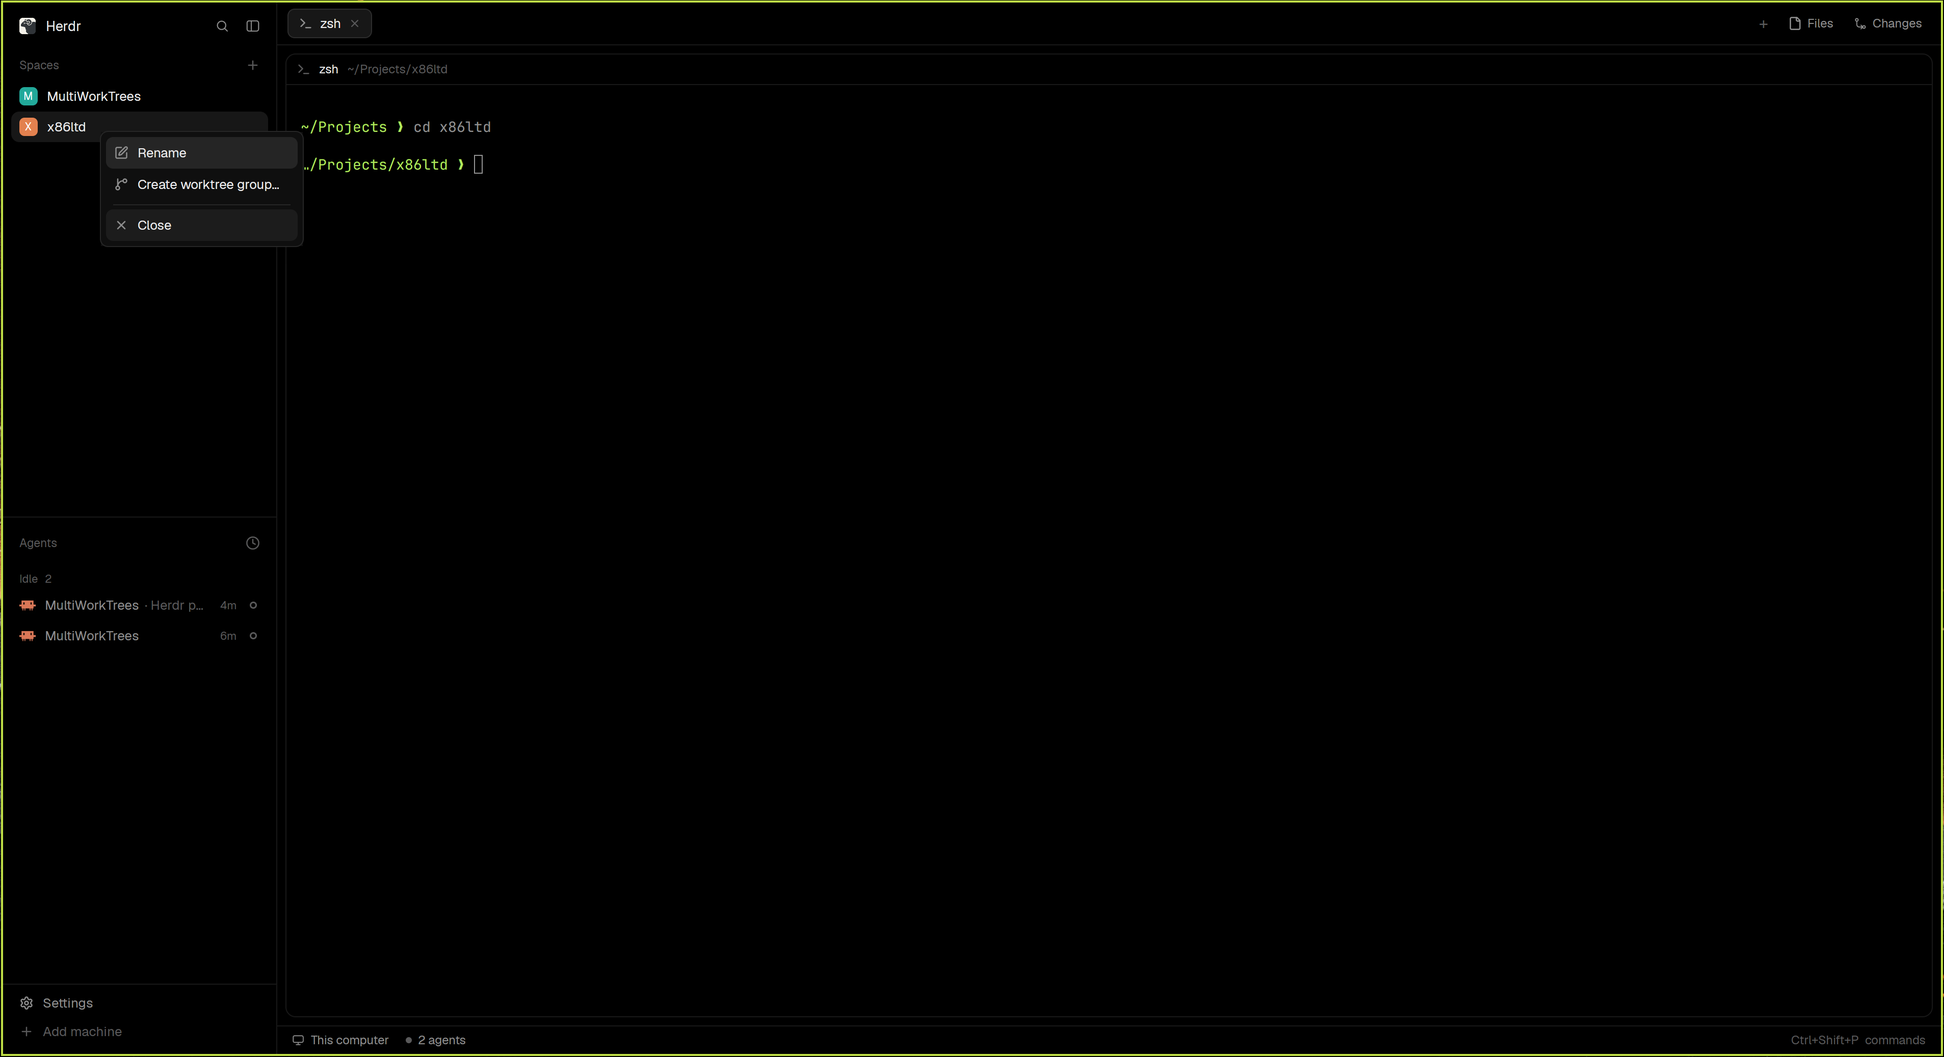
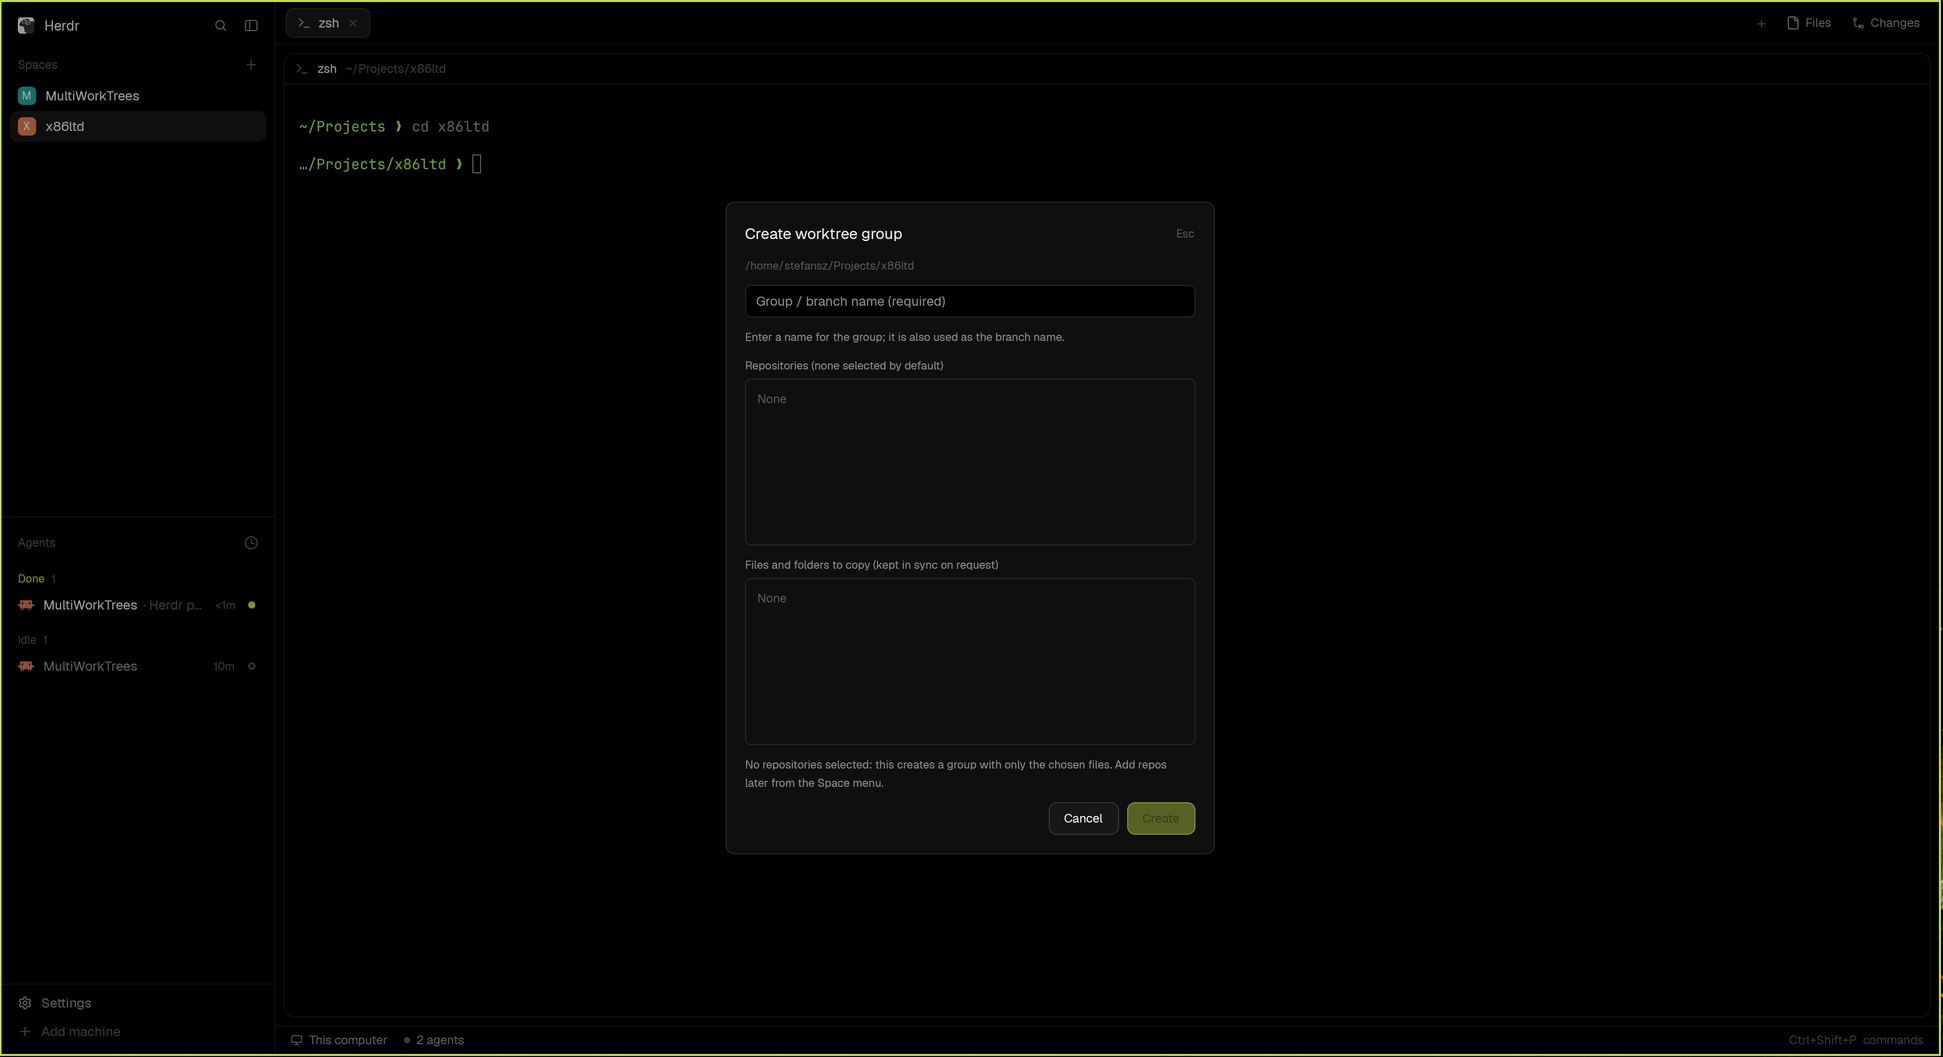
Add "New worktree group..." to the tab bar + menu; new screenshots
- tabs-wg and new-menu-wg: clones of Herdr's tabs bar and + menu
- Create dialog refuses git repos and existing groups with a clear message
- Wider Space menu so labels are not truncated
- install.sh copies every file of a mod (tabs-wg ships svg icons)

diff --git a/mods/tabs-wg/main.js b/mods/tabs-wg/main.js
@@ -1,0 +1,157 @@
+import { View, div, svg, image } from "gpui-kit";
+import { h_flex, ScrollHandle } from "gpui-base";
+import { spaces, panes, run, openOverlay, theme, window, shared, layout, settings } from "herdr";
+
+function find(node, id) {
+  if (node?.id === id) return node;
+  for (const child of node?.children ?? []) {
+    const found = find(child, id);
+    if (found) return found;
+  }
+  return null;
+}
+
+// Same as the agents mod: drops a status glyph, keeps a leading bracket or quote.
+const clean = (s) => (s ?? "").replace(/^[^\p{L}\p{N}\p{Ps}\p{Pi}]+/u, "").replace(/^\[ [!.] \] /, "").trim();
+
+// A tab Herdr named (unnamed, or after its program) follows its agent's live
+// title, as the agents list does; a name the person gave stays.
+function label(tab, lead) {
+  const prog = lead?.program?.name;
+  const base = tab.named ? tab.name : prog ?? "Terminal";
+  if (!lead?.program?.agent) return base;
+  const live = clean(lead.title);
+  // clean() would strip a path's leading ~ or /: test the title with only its status glyph gone.
+  const path = /^[~/]|^[A-Za-z]:\\/.test((lead.title ?? "").replace(/^[^\p{L}\p{N}~/]+/u, ""));
+  const telling = live && live !== lead.terminal && live !== prog && !path && !live.includes("@") && live.toLowerCase() !== lead.program.key;
+  return (tab.name === prog || !tab.named) && telling ? live : base;
+}
+
+export default class Tabs extends View {
+  init() {
+    this.pressed = null;
+    this.scroll = ScrollHandle.new();
+    try { this.panels = JSON.parse(localStorage.getItem("panels") ?? "{}"); } catch { this.panels = {}; }
+    if (!this.panels || typeof this.panels !== "object" || Array.isArray(this.panels)) this.panels = {};
+    this.swipe = { acc: 0, steps: 0, at: 0, last: 0 };
+  }
+
+  // One tab per wheel notch. A touchpad or smooth-scrolling mouse sends many
+  // small events per gesture: a short swipe or one smoothed notch (about
+  // 25 px) switches one tab, a longer swipe keeps going a tab per 60 px, at
+  // most one every 100 ms so each shows.
+  wheel(e) {
+    if (e.delta_lines) {
+      if (e.delta_lines.y) run(e.delta_lines.y > 0 ? "tab.prev" : "tab.next");
+      return;
+    }
+    const s = this.swipe, now = Date.now();
+    // Phases often arrive only as moves (a macOS touchpad included): a pause
+    // or a turn starts a new gesture.
+    if (e.touch_phase === "started" || now - s.at > 250 || e.delta.y * s.acc < 0) Object.assign(s, { acc: 0, steps: 0 });
+    s.at = now;
+    s.acc += e.delta.y;
+    const need = s.steps ? 60 : 20;
+    if (Math.abs(s.acc) < need || now - s.last < 100) return;
+    s.acc -= Math.sign(s.acc) * need;
+    s.steps++;
+    s.last = now;
+    run(e.delta.y > 0 ? "tab.prev" : "tab.next");
+  }
+
+  // The side panel is remembered per space: switching shows that space's choice
+  // (closed if it never had one), and opening or closing it records it.
+  syncPanel(space, panel, body, enabled) {
+    if (!space || !panel) return;
+    const now = panel.hidden ? null : body?.active ?? null;
+    if (space.id !== this.space) {
+      const first = this.space === undefined;
+      this.space = space.id; this.pending = null;
+      if (!(first && !(space.id in this.panels))) {
+        const stored = this.panels[space.id] ?? null, want = enabled.includes(stored) ? stored : null;
+        if (want !== now) {
+          this.pending = { want, until: Date.now() + 1000 };
+          if (want) { run("layout.select", { stack: "panel-body", child: want }); run("layout.show", { id: "panel" }); }
+          else run("layout.hide", { id: "panel" });
+          return;
+        }
+      }
+    }
+    // Until the restore lands (or something else won), the old state isn't a choice.
+    if (this.pending) {
+      if (this.pending.want !== now && Date.now() < this.pending.until) return;
+      this.pending = null;
+    }
+    if (this.panels[space.id] === now) return;
+    this.panels[space.id] = now;
+    localStorage.setItem("panels", JSON.stringify(this.panels));
+  }
+
+  render() {
+    const t = theme();
+    const space = spaces().find(p => p.active);
+    const shown = space?.tabs ?? [];
+    const active = shown.findIndex(tab => tab.active);
+    const selected = shown[active]?.id;
+    if (selected !== this.selected || active !== this.selectedIndex) {
+      this.selected = selected;
+      this.selectedIndex = active;
+      if (active >= 0) this.scroll.scroll_to_item(active);
+    }
+    const stop = (_e, cx) => cx.stop_propagation();
+    const button = (id, label, action) => div().id(id).size(26).flex_none().flex().items_center().justify_center().rounded(6).text_color(t.dim).hover(s => s.bg(t.hover).text_color(t.foreground))
+      .on_mouse_down("left", stop).on_click(action).child(label);
+    const item = (c, i) => {
+      const lead = panes().find(p => p.tab === c.id && p.program?.agent) ?? panes().find(p => p.tab === c.id);
+      const program = lead?.program;
+      const name = label(c, lead);
+      return h_flex().id(`tab-${c.id}`).h(29).px(10).gap(7).rounded(7).items_center().flex_none().text_size(12.8)
+        // A rename or status dot on this or an earlier tab can push the active one out.
+        .when(i <= active, el => el.on_size_change((_size, cx) => { this.scroll.scroll_to_item(active); cx.notify(); }))
+        .border(1).border_color(c.active ? t.border : t.chrome).bg(c.active ? t.raised : t.chrome).text_color(c.active ? t.foreground : t.muted)
+        .hover(s => s.bg(t.hover))
+        .on_mouse_down("left", (e, cx) => { cx.stop_propagation(); this.pressed = i; if (e.click_count === 2) run("tab.rename", { id: c.id }); })
+        .on_mouse_up("left", () => {
+          const from = this.pressed; this.pressed = null;
+          if (from !== null && from !== i) run("tab.move", { id: shown[from].id, index: space.tabs.findIndex(x => x.id === c.id) + 1 });
+          else run("tab.select", { id: c.id });
+        })
+        .on_mouse_down("right", (_e, cx) => { cx.stop_propagation(); openOverlay({ mod: "menu", kind: "popup", width: 200, props: { tab: "tab", target: { id: c.id, space: space.id } } }); })
+        .when(Boolean(program?.icon), el => el.child(program.tint ? svg(program.icon).size(14).text_color(t.muted) : image(program.icon).size(14)))
+        .child(div().max_w(170).truncate().child(c.zoomed ? `${name} Z` : name))
+        .when(c.status === "working", el => el.child(svg("mods/workspace-chrome/spinner.svg").size(12).flex_none().text_color(t.working).spin(900)))
+        .when(c.status === "blocked" || c.status === "done", el => el.child(div().size(6).rounded(3).bg(t[c.status])))
+        .when(c.active, el => el.child(div().id(`close-${c.id}`).text_color(t.dim).on_mouse_down("left", stop).on_click((_e, cx) => { cx.stop_propagation(); run("tab.close", { id: c.id }); }).child(svg("mods/pane/close.svg").size(12))));
+    };
+    const root = layout(), sidebar = find(root, "sidebar"), w = window();
+    // Old saved rails and a dragged-narrow sidebar can be smaller than the window buttons.
+    const lightsPadding = w?.platform === "macos" && w.titlebar === "none" && !w.fullscreen && root?.traffic_lights
+      ? Math.max(10, (root.traffic_lights[0] + 64) / settings().zoom - (sidebar?.hidden ? 0 : sidebar?.size?.px ?? 0))
+      : 10;
+    const panel = find(root, "panel"), body = find(root, "panel-body");
+    const enabled = shared("workspace.panels") ?? ["files", "changes"];
+    this.syncPanel(space, panel, body, enabled);
+    const panelButton = (id, label, icon) => {
+      const on = panel && !panel.hidden && body?.active === id;
+      return h_flex().id(`panel-${id}`).h(26).px(8).gap(5).flex_none().items_center().rounded(6)
+        .text_size(12).bg(on ? t.selected : t.chrome).text_color(on ? t.foreground : t.muted)
+        .hover(s => s.bg(t.hover)).on_mouse_down("left", stop)
+        .on_click(() => {
+          if (on) run("layout.hide", { id: "panel" });
+          else { run("layout.select", { stack: "panel-body", child: id }); run("layout.show", { id: "panel" }); }
+        }).child(svg(icon).size(14)).child(label);
+    };
+    return h_flex().size_full().min_w(0).px(10).pl(lightsPadding).gap(3).items_center().bg(t.chrome).border_b(1).border_color(t.border)
+      .on_mouse_up("left", () => { this.pressed = null; })
+      .on_scroll_wheel(e => this.wheel(e))
+      .child(h_flex().id("tab-scroll").flex_1().min_w(0).h_full().items_center().gap(3).overflow_x_scrollbar().track_scroll(this.scroll)
+        .on_size_change((_size, cx) => { if (active >= 0) { this.scroll.scroll_to_item(active); cx.notify(); } })
+        .children(shown.map(item)))
+      .child(button("tab-new", "+", () => openOverlay({ mod: "new-menu-wg", kind: "popup", width: 270, height: 543 })))
+      .when(enabled.includes("files"), el => el.child(panelButton("files", "Files", "mods/files/file.svg")))
+      .when(enabled.includes("changes"), el => el.child(panelButton("changes", "Changes", "mods/changes/changes.svg")))
+      .when(w?.buttons, el => el.child(button("minimize", w.platform === "windows" ? svg("mods/tabs-wg/win-min.svg").size(16) : "−", () => run("window.minimize")))
+        .child(button("maximize", w.platform === "windows" ? svg(`mods/tabs-wg/${w.maximized ? "win-restore" : "win-max"}.svg`).size(16) : "□", () => run("window.maximize")))
+        .child(button("close-window", w.platform === "windows" ? svg("mods/tabs-wg/win-close.svg").size(16) : svg("mods/pane/close.svg").size(13), () => run("window.close"))));
+  }
+}

diff --git a/mods/new-menu-wg/main.js b/mods/new-menu-wg/main.js
@@ -1,0 +1,74 @@
+import { View, div, svg, image } from "gpui-kit";
+import { h_flex, v_flex } from "gpui-base";
+import { theme, spaces, panes, knownAgents, run, openOverlay, closeOverlay, props, window, keys, shared, setShared } from "herdr";
+
+// The last agents each machine reported, shown at once while knownAgents() checks again.
+const KNOWN = "new-menu.agents";
+
+function shortcut(name) {
+  const k = keys().find(b => b.section === "global" && b.action === name);
+  if (!k?.keys.trim()) return "";
+  const mac = window()?.platform === "macos";
+  const names = mac ? { ctrl: "⌃", alt: "⌥", shift: "⇧", cmd: "⌘", fn: "fn" } : { ctrl: "Ctrl", alt: "Alt", shift: "Shift", cmd: "Super", fn: "Fn" };
+  const alias = { secondary: mac ? "cmd" : "ctrl", super: "cmd", win: "cmd" };
+  return k.keys.trim().split(/\s+/).map(stroke => {
+    const parts = stroke.split("-");
+    let key = parts.pop();
+    if (key === "") { key = "-"; parts.pop(); }
+    const held = new Set(parts.map(m => alias[m.toLowerCase()] ?? m.toLowerCase()));
+    if (/^[A-Z]$/.test(key)) held.add("shift");
+    const label = key.length === 1 ? key.toUpperCase() : key[0].toUpperCase() + key.slice(1).toLowerCase();
+    return [...Object.keys(names).filter(m => held.has(m)).map(m => names[m]), label].join(mac ? "" : "+");
+  }).join(" ");
+}
+
+export default class NewMenu extends View {
+  init(_props, cx) {
+    const machine = spaces().find(s => s.active)?.machine;
+    const where = machine ?? "";
+    this.agents = shared(KNOWN)?.[where] ?? [];
+    this.handle = cx.focus_handle();
+    this.handle.focus();
+    cx.spawn(async cx => {
+      try {
+        this.agents = await knownAgents({ on: machine });
+        setShared(KNOWN, { ...shared(KNOWN), [where]: this.agents });
+      }
+      catch { this.failed = true; }
+      cx.notify();
+    });
+  }
+  row(id, icon, name, action, hint = "", enabled = true) {
+    const t = theme();
+    return h_flex().id(id).h(31).px(9).gap(10).rounded(7).items_center().flex_none()
+      .text_color(enabled ? t.foreground : t.dim).when(enabled, el => el.hover(s => s.bg(t.selected)))
+      .on_click(() => { if (enabled) { closeOverlay(props().overlay); action(); } })
+      .child(icon).child(div().flex_1().child(name)).child(div().text_size(11).text_color(t.dim).child(hint));
+  }
+  render() {
+    const t = theme();
+    const space = spaces().find(s => s.active);
+    const installed = this.agents.filter(a => a.installed);
+    const choices = this.failed ? installed : [...installed, ...this.agents.filter(a => !a.installed).slice(0, 2)];
+    return v_flex().min_h(0).w_full().h(Math.min(522, 198 + Math.max(1, choices.length + (this.failed ? 1 : 0)) * 31)).bg(t.popover).p(5).text_size(12.8)
+      .id("new-menu").track_focus(this.handle)
+      .on_key_down((e) => {
+        if (e.modifiers.control || e.modifiers.platform || e.modifiers.alt) return;
+        const agent = /^[1-9]$/.test(e.key) ? installed[Number(e.key) - 1] : null;
+        if (!agent) return;
+        closeOverlay(props().overlay);
+        run("tab.new", { name: agent.name, space: space?.id, argv: agent.run });
+      })
+      .child(this.row("terminal", svg("icons/shell.svg").size(14), "Terminal", () => run("tab.new", { space: space?.id }), shortcut("tab.new")))
+      .child(div().px(9).pt(8).pb(4).text_size(11).text_color(t.dim).child("Start an agent"))
+      .child(v_flex().flex_1().min_h(0).overflow_y_scrollbar()
+        .children(choices.map((a, i) => this.row(a.key, a.tint ? svg(a.icon).size(14).text_color(t.foreground) : image(a.icon).size(14), a.name,
+          () => run("tab.new", { name: a.name, space: space?.id, argv: a.run }), a.installed ? (i < 9 ? String(i + 1) : "") : "not installed", a.installed)))
+        .when(this.failed || this.agents.length === 0, el => el.child(div().px(9).py(6).text_color(t.dim).child(this.failed ? "Could not check installed agents" : "Checking installed agents…"))))
+      .child(div().h(1).mx(4).my(5).bg(t.border))
+      .child(this.row("space", div().w(14).child("+"), "New space", () => run("space.new"), shortcut("space.new")))
+      .child(this.row("worktree", svg("mods/workspace-chrome/branch.svg").size(14), "New worktree…", () => openOverlay({ mod: "worktree", kind: "dialog", width: 460, height: 280, props: { space: space?.id, folder: panes().find(p => p.focused)?.cwd, action: "new" } }), "", Boolean(space)))
+      .child(this.row("worktree-open", svg("mods/workspace-chrome/branch.svg").size(14), "Open worktree\u2026", () => openOverlay({ mod: "worktree", kind: "dialog", width: 560, height: 480, props: { space: space?.id, folder: panes().find(p => p.focused)?.cwd, action: "open" } }), "", Boolean(space)))
+      .child(this.row("worktree-group", svg("mods/workspace-chrome/branch.svg").size(14), "New worktree group\u2026", () => openOverlay({ mod: "worktree-group", kind: "dialog", width: 480, height: 640, props: { mode: "create", space: space?.id, folder: panes().find(p => p.focused)?.cwd } }), "", Boolean(space)));
+  }
+}

diff --git a/mods/worktree-group/main.js b/mods/worktree-group/main.js
@@ -53,7 +53,7 @@ export default class WorktreeGroup extends View {
     this.input.on("focus", (_e, cx) => { this.inputFocused = true; cx.notify(); });
     this.input.on("blur", (_e, cx) => { this.inputFocused = false; cx.notify(); });
     cx.spawn(async (cx) => {
-      try { await this.load(); } catch (e) { this.error = String(e); }
+      try { await this.load(); } catch (e) { this.error = String(e).replace(/^Error: /, ""); this.fatal = true; }
       this.ready = true;
       this.refreshInfo(cx);
       cx.notify();
@@ -84,6 +84,8 @@ export default class WorktreeGroup extends View {
       this.info.linked = top.ok && common.ok && common.out !== `${top.out}/.git`;
     }
     if (this.mode === "create") {
+      if (this.info.git) throw new Error("This folder is a git repository, not a folder that contains repositories.");
+      if (found) throw new Error("This Space is already a worktree group.");
       const settings = await readTextFile(join(appHome(), "settings.json")).catch(() => null);
       this.groupsRoot = join(worktreesDirFromSettings(settings, home()), "groups");
       const scan = await scanFolder(this.folder);
@@ -322,7 +324,7 @@ export default class WorktreeGroup extends View {
     const edit = this.mode === "edit";
     const plan = edit && this.ready ? this.plan() : { add: [], remove: [] };
     const review = edit && this.stage === "review";
-    const valid = !this.busy && this.ready && !this.error.startsWith("That space") &&
+    const valid = !this.busy && this.ready && !this.fatal &&
       (create ? this.canCreate() : this.mode === "sync" ? this.list.length > 0 : destroy ? true : plan.add.length + plan.remove.length > 0);
     const confirmLabel = this.busy ? "Working…" : { create: "Create", edit: review ? "Confirm and apply" : "Review changes…", sync: "Sync and overwrite", destroy: "Delete group" }[this.mode];
     const sub = create ? this.folder : this.pw?.dir;

diff --git a/mods/spaces-wg/main.js b/mods/spaces-wg/main.js
@@ -287,7 +287,7 @@ export default class Spaces extends View {
 
   menu(w) {
     // A popup is as tall as its items; height is only the most.
-    openOverlay({ mod: "worktree-group", kind: "popup", width: 200, height: 260, props: { mode: "menu", tab: "space", target: { id: w.id } } });
+    openOverlay({ mod: "worktree-group", kind: "popup", width: 270, height: 260, props: { mode: "menu", tab: "space", target: { id: w.id } } });
   }
 
   orderingDue(now) {

diff --git a/README.md b/README.md
@@ -15,9 +15,14 @@ one Space with a git worktree of each chosen repo on a shared branch, plus the a
   .herdr-worktree-group.json
 ```
 
+![Create worktree group dialog](preview.png)
+
 ## Using it
 
-Right-click a Space in the sidebar.
+Right-click a Space in the sidebar, or use the **+** button in the tab bar (**New worktree group…**, for the
+active Space's folder).
+
+![Space menu](preview_menu.png)
 
 - **Create worktree group from folder** (on a folder that is not a git repo): type a name (it is also
   the branch name), tick the repos (none are ticked by default) and the files to copy (agent files
@@ -40,16 +45,21 @@ shell, so paths with spaces are safe.
 herdr-app do layout.switch '{"name":"main-wg"}'
 ```
 
-This copies `worktree-group` (the mod) and `spaces-wg` (below) into `~/.config/herdr-app/mods`, checks
+This copies `worktree-group` (the mod) and `spaces-wg`, `tabs-wg`, `new-menu-wg` (below) into `~/.config/herdr-app/mods`, checks
 them with `herdr-app check`, and with `--layout` adds the `main-wg` layout. Press `ctrl-alt-shift-escape`
 in Herdr to fall back to the default layout if anything misbehaves.
 
-### Why a cloned sidebar?
+### Why cloned mods?
 
-Herdr's shipped mods and layouts are read-only and the Space right-click opens the shipped `menu` mod.
-`spaces-wg` is Herdr's `spaces` sidebar (v0.1.16) with one change: right-click opens `worktree-group`
-instead of `menu`, whose standard items are reproduced there. `layouts/main-wg.json` is Herdr's `main`
-layout pointing at `spaces-wg`. If your layout is your own clone, change its sidebar block's `mod` to
+Herdr's shipped mods and layouts are read-only, and the Space right-click and the tab bar's **+** open
+shipped mods. So three small clones, each with one change (Herdr v0.1.16):
+
+- `spaces-wg`: Herdr's `spaces` sidebar; right-click opens `worktree-group` instead of `menu` (whose standard
+  items are reproduced there).
+- `tabs-wg`: the `tabs` bar; **+** opens `new-menu-wg`.
+- `new-menu-wg`: the `new-menu` popup with an extra **New worktree group…** row.
+
+`layouts/main-wg.json` is Herdr's `main` layout pointing at `spaces-wg` and `tabs-wg`. If your layout is your own clone, change its sidebar block's `mod` to
 `spaces-wg`, or make the same one-line change in your sidebar clone (`mod: "worktree-group"`,
 `props: { mode: "menu", tab: "space", target: { id } }`).
 

diff --git a/RECIPE.md b/RECIPE.md
@@ -8,7 +8,7 @@ with a git worktree of each chosen repo on one shared branch, plus the agent fil
 
 ## What you see
 
-The Space right-click menu (a popup, 200px wide, Herdr's popover colors, 31px rows, 14px muted icons) with
+The Space right-click menu (a popup, 270px wide, Herdr's popover colors, 31px rows, 14px muted icons) with
 the stock items (Rename, New/Open/Remove worktree for git spaces, Close) plus:
 
 - on a folder that is not a git repo: **Create worktree group from folder**;
@@ -52,9 +52,12 @@ folder path in dim 11px text under the title):
 - `mods/worktree-group/` (`mod.json` `{ "place": "none" }`): `lib.js` has all logic with injected `exec` /
   `readTextFile` / `writeTextFile` and no `herdr` imports (unit tested); `main.js` is one `View` with modes
   `menu | create | edit | sync | destroy`, opened with `openOverlay({ mod: "worktree-group", kind: "popup" | "dialog", props })`.
+- `mods/tabs-wg/` and `mods/new-menu-wg/`: clones of `tabs` and `new-menu`; the tab bar's **+** opens `new-menu-wg`,
+  which adds a **New worktree group…** row (opens `worktree-group` with `{ mode: "create", space, folder }`, the active
+  Space and focused pane folder; the popup is 270px wide and 543px tall).
 - `mods/spaces-wg/`: a clone of Herdr's `spaces` sidebar (`herdr-app do mod.clone '{"name":"spaces","as":"spaces-wg"}'`)
   where `menu(w)` opens `worktree-group` with `{ mode: "menu", tab: "space", target: { id } }` instead of `menu`.
-- `layouts/main-wg.json`: a clone of the `main` layout (`layout.clone`) whose spaces block uses `spaces-wg`.
+- `layouts/main-wg.json`: a clone of the `main` layout (`layout.clone`) whose spaces block uses `spaces-wg` and whose tab bar block uses `tabs-wg`.
 - `herdr` functions: `exec`, `readTextFile`, `writeTextFile`, `spaces`, `panes`, `openOverlay`, `closeOverlay`, `props`,
   `run` (`space.new`, `space.close`, `space.rename`), `notify`, `theme`, `appHome`, `home`. `gpui-base` `InputState`/`Input`.
 - Programs run: `git`, `find`, `test`, `cp`, `mkdir`, `rm`, `rmdir`. Everything passes argument arrays, never a shell.
